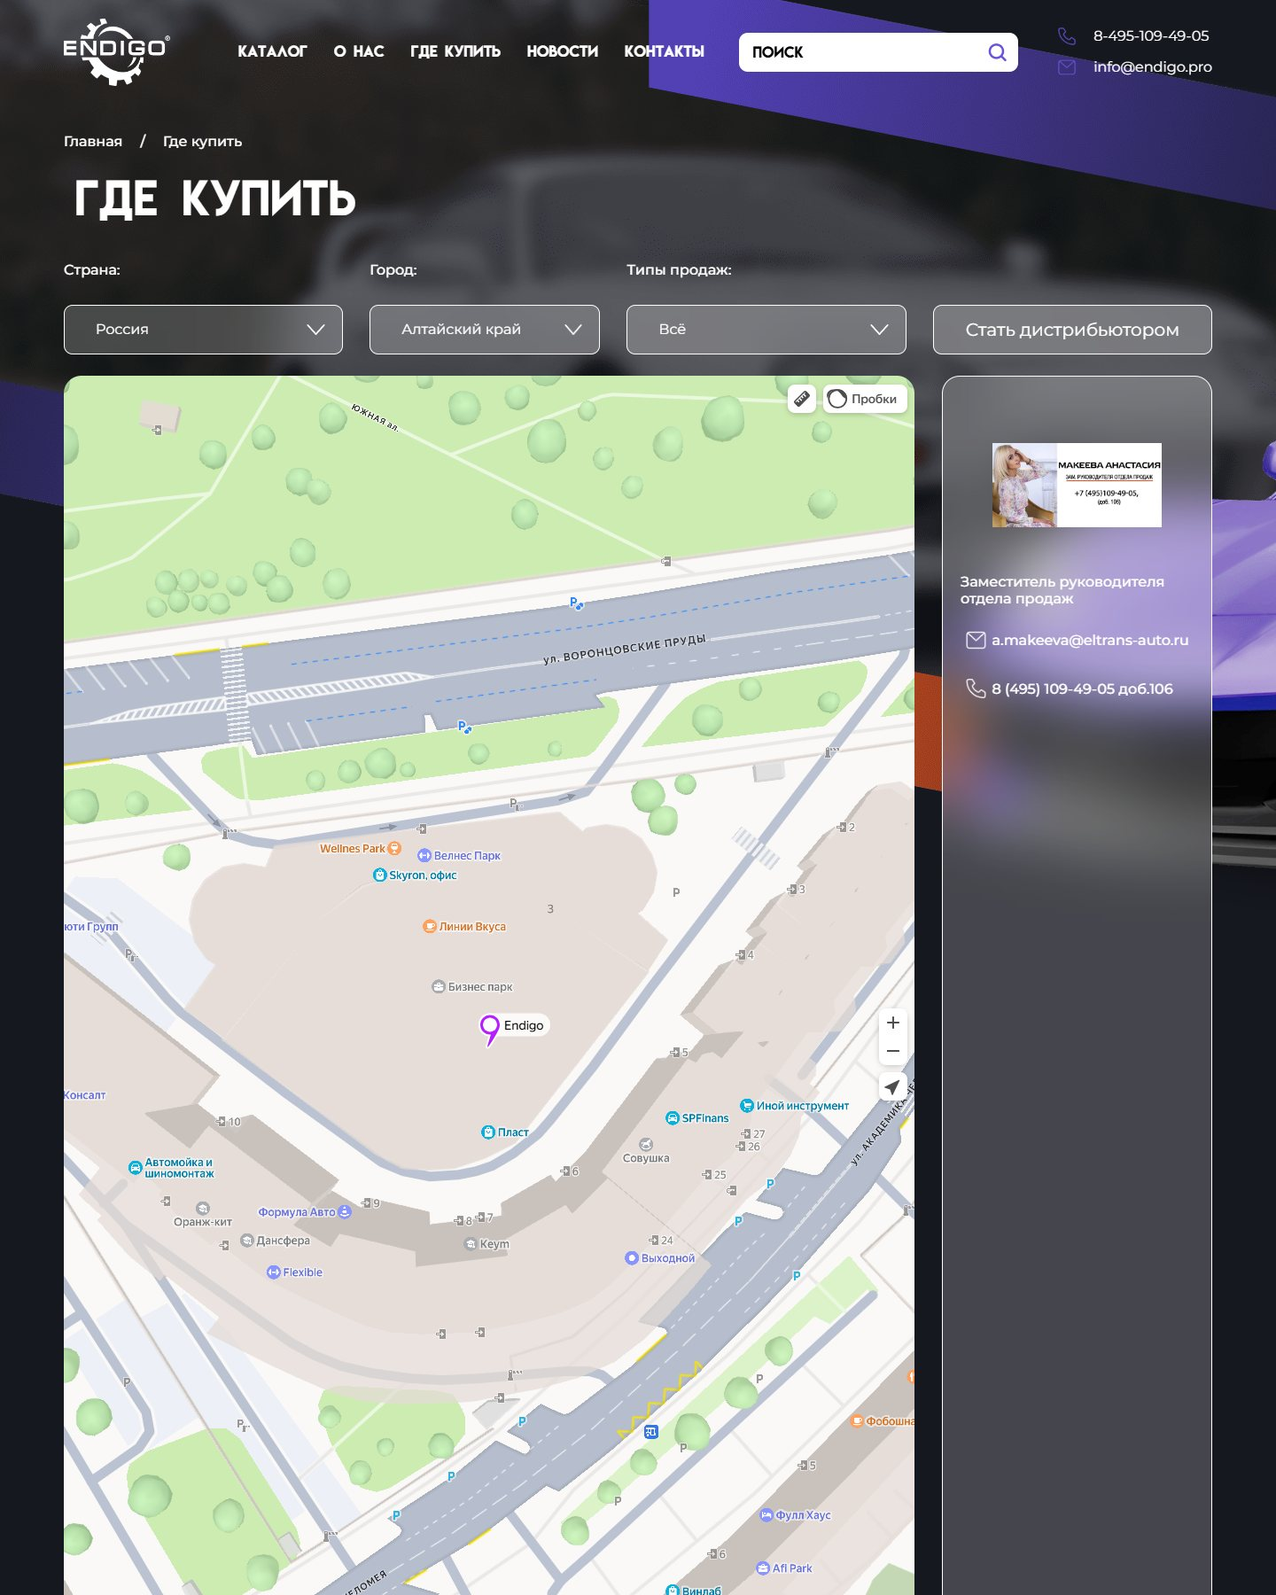
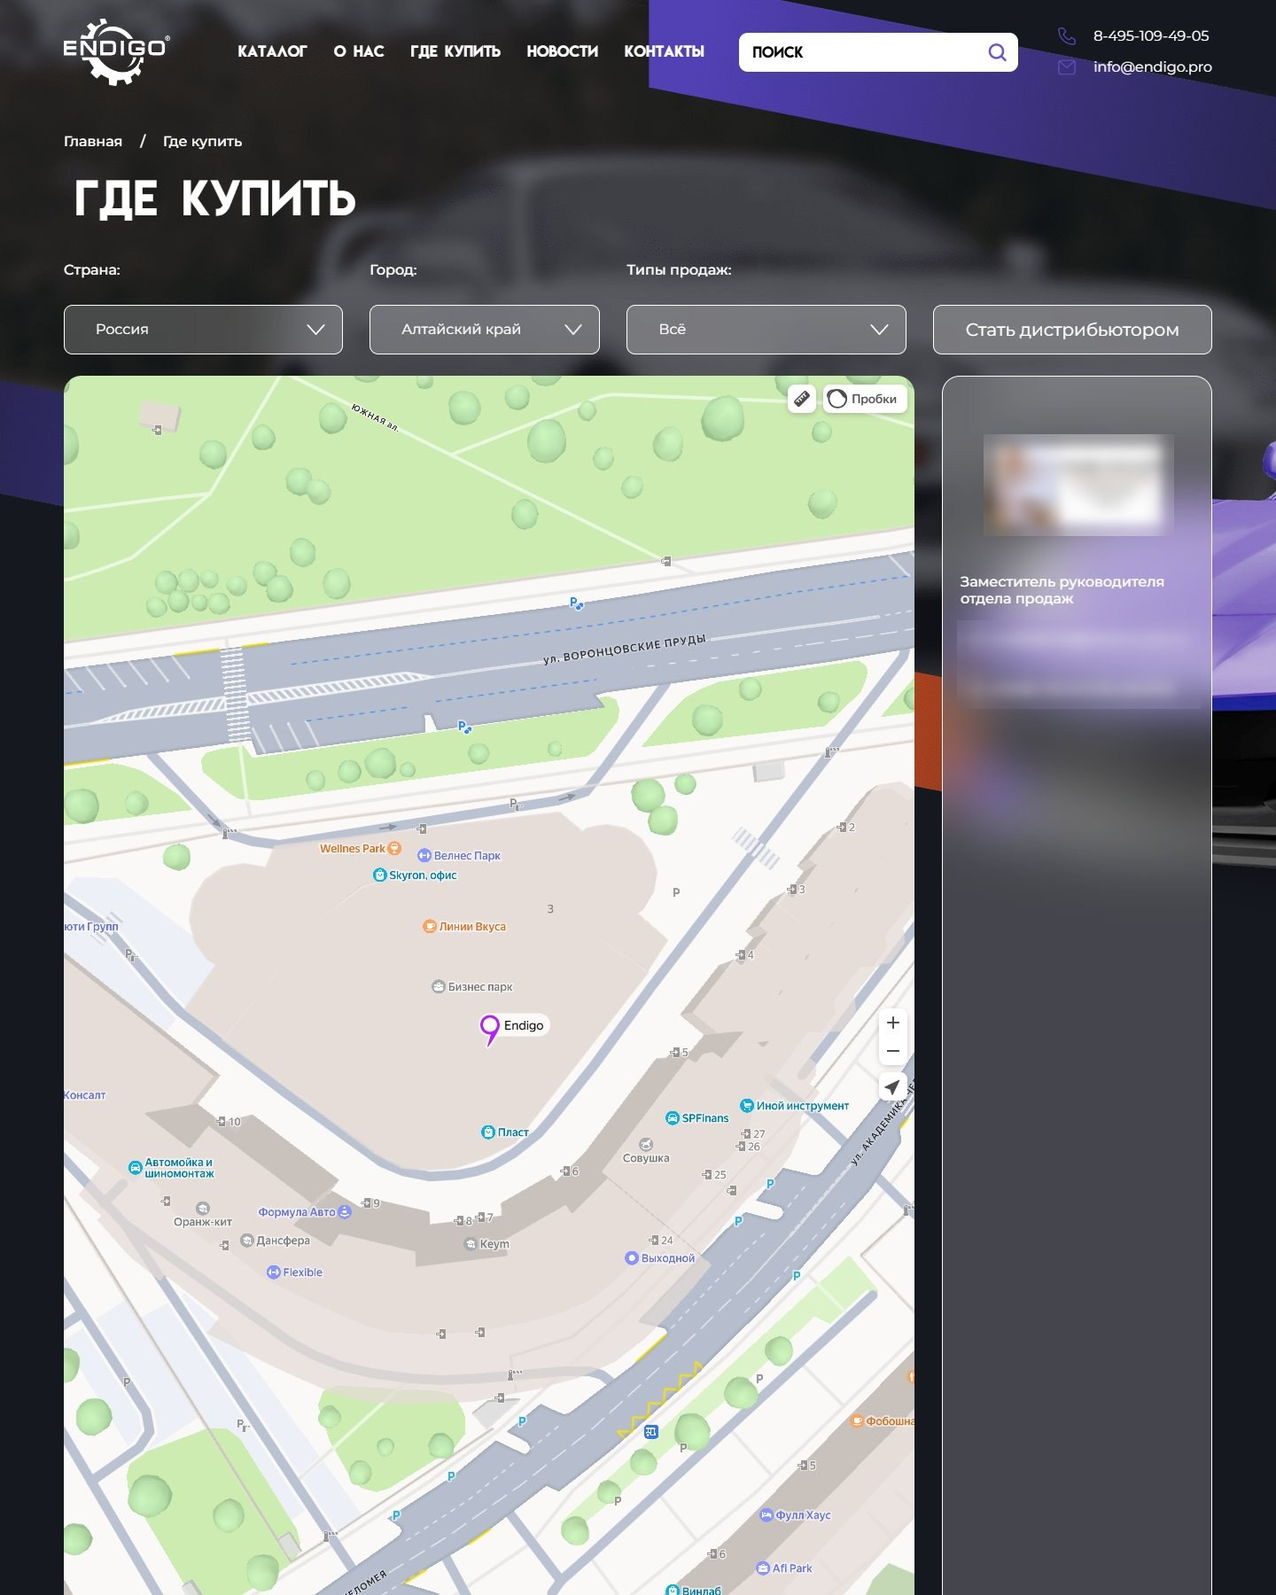
ENDIGO: 44 проблемы, шесть зон, скрыты данные менеджера, метки разведены

Changed region(s): [[0.75, 0.2489, 0.9375, 0.3422], [0.7812, 0.3733, 0.9062, 0.4356]]

diff --git a/src/data/portfolioCases.ts b/src/data/portfolioCases.ts
@@ -641,17 +641,17 @@ export const portfolioCases: Record<string, IPortfolioCase> = {
         ],
         info: [
             { label: 'Задача', text: 'ENDIGO — российская марка профессиональной автохимии: очистители сажевого фильтра и кондиционера, пенная раскоксовка, смазки и сервисные спреи. Покупают её не автовладельцы в рознице, а сервисные центры, автомойки и магазины автозапчастей, причём через региональных дистрибьюторов. Мастер приходит на сайт с конкретной поломкой: машина дымит, контакт окислился, прикипел болт. Артикул вроде DX112 ему ничего не скажет. Нужен был сайт, который переводит поломку в название средства и сразу подсказывает, у кого его купить в своём регионе.' },
-            { label: 'Решение', text: 'Три входа в каталог вместо одного. Схема автомобиля на главной: выбираешь дверь, капот, колесо, стекло или корпус, и справа остаются только средства для этой части машины. Страница «Проблемы и их решения» собрала 45 типовых симптомов с поиском: вводишь «масло» — список сам раскрывает подходящую проблему и показывает средство. А «Где купить» по стране, региону и типу продаж выдаёт контакт менеджера и точку на карте. Тёмный фон, фиолетовый цвет баллонов и спорткар, который въезжает на первый экран, делают сайт похожим на саму марку, а не на прайс-лист.' },
-            { label: 'Стек', chips: ['Joomla', 'Bootstrap 5', 'jQuery', 'Owl Carousel', 'AOS', 'Яндекс Карты'] },
-            { label: 'Результат', text: 'Каталог из шести разделов, от сервисных продуктов до средств для дизеля и кондиционеров. У каждого средства своя страница: артикул, объём, три главных преимущества, способ применения, предупреждения и видео. 45 проблем приводят к нужному средству за один клик, а дилеров можно искать по 69 регионам России и Казахстана. Кнопка «Стать дистрибьютором» открывает заявку прямо со страницы дилеров.' }
+            { label: 'Решение', text: 'Три входа в каталог вместо одного. Схема автомобиля на главной: выбираешь дверь, капот, колесо, стекло, корпус или бак, и справа остаются только средства для этой части машины. Страница «Проблемы и их решения» собрала 44 типовых симптома с поиском: вводишь «масло» — список сам раскрывает подходящую проблему и показывает средство. А «Где купить» по стране, региону и типу продаж выдаёт контакт менеджера и точку на карте. Тёмный фон, фиолетовый цвет баллонов и спорткар, который въезжает на первый экран, делают сайт похожим на саму марку, а не на прайс-лист.' },
+            { label: 'Стек', chips: ['Joomla', 'Bootstrap 5', 'jQuery', 'Owl Carousel', 'AOS', 'Яндекс.Карты'] },
+            { label: 'Результат', text: 'Каталог из шести разделов, от сервисных продуктов до средств для дизеля и кондиционеров. У каждого средства своя страница: артикул, объём, три главных преимущества, способ применения, предупреждения и видео. 44 проблемы приводят к нужному средству за один клик, а дилеров можно искать по 69 регионам России и Казахстана. Кнопка «Стать дистрибьютором» открывает заявку прямо со страницы дилеров.' }
         ],
         features: [
-            { title: 'Подбор по схеме автомобиля', text: 'Блок «Поможем с выбором» на главной: при наведении на часть машины она подсвечивается сеткой, линия ведёт от неё к списку, и в списке остаются только подходящие средства. На телефоне схему заменяют шесть кнопок с теми же зонами, потому что навести курсор там нельзя.' },
+            { title: 'Подбор по схеме автомобиля', text: 'Блок «Поможем с выбором» на главной: при наведении на часть машины она выделяется на схеме, линия ведёт от неё к списку, и в списке остаются только подходящие средства. На телефоне схему заменяют шесть кнопок с теми же зонами, потому что навести курсор там нельзя.' },
             { title: 'Проблемы и их решения', text: 'Отдельная страница на языке мастера: «Синий дым», «Жрёт масло», «Лампа мигает», «Прикипел колёсный диск». Каждый пункт раскрывается в карточку средства с фото, артикулом и описанием. Поиск подсвечивает совпадение и сам прокручивает к нему, а поле поиска остаётся закреплённым наверху, пока листаешь длинный список.' },
             { title: 'Где купить', text: 'Марка продаётся через дистрибьюторов, поэтому у сайта нет корзины, зато есть поиск продавца. Три фильтра (страна, регион, опт или розница) оставляют нужные карточки: визитка менеджера, почта, телефон с добавочным и Яндекс Карта с точкой продажи.' },
             { title: 'Страница средства', text: 'Карточка товара отвечает на вопросы мастера по порядку: что это и в каком объёме, три главных преимущества крупными цифрами, как применять и чего делать нельзя. Рядом видео и кнопка «Проблемы и их решения», если нужно сверить симптом.' }
         ],
-        metrics: [['45', 'типовых проблем с готовым решением'], ['6', 'зон автомобиля в подборе средства'], ['69', 'регионов в поиске дилера']],
+        metrics: [['44', 'типовые проблемы с готовым решением'], ['6', 'зон автомобиля в подборе средства'], ['69', 'регионов в поиске дилера']],
         screens: [
             {
                 title: 'Первый экран',
@@ -671,19 +671,19 @@ export const portfolioCases: Record<string, IPortfolioCase> = {
                 text: 'Схема автомобиля вместо списка категорий: выбираешь часть машины и видишь, что для неё есть.',
                 image: { src: img('endigo-s2-choice.jpg') },
                 points: [
-                    { text: 'Выбранная зона, здесь корпус, подсвечивается сеткой поверх машины. Всего зон шесть: дверь, капот, колесо, стекло, корпус и бак.', mark: mark(0.3, 0.52, 0.3, 0.52, 1.15) },
-                    { text: 'Линия ведёт от схемы к списку, а в списке остаются только средства для этой зоны: для корпуса — пенная раскоксовка и цитрусовый очиститель.', mark: mark(0.8, 0.45, 0.8, 0.45, 1.25) },
+                    { text: 'Машина на схеме разбита на шесть зон: дверь, капот, колесо, стекло, корпус и бак. Каждую можно выбрать прямо на картинке.', mark: mark(0.3, 0.52, 0.3, 0.52, 1.15) },
+                    { text: 'Линия ведёт от схемы к списку, а в списке остаются только средства для выбранной зоны: здесь пенная раскоксовка и цитрусовый очиститель.', mark: mark(0.8, 0.45, 0.8, 0.45, 1.25) },
                     { text: 'Если поломка понятна, а часть машины нет, кнопка ведёт на страницу «Проблемы и их решения».', mark: mark(0.85, 0.76, 0.8, 0.74, 1.35) }
                 ]
             },
             {
                 title: 'Проблемы и их решения',
                 goal: 'Цель: перевести симптом в название средства',
-                text: '45 поломок словами мастера, и у каждой готовое средство.',
+                text: '44 поломки словами мастера, и у каждой готовое средство.',
                 image: { src: img('endigo-s3-problems.jpg') },
                 points: [
-                    { text: 'Поиск закрепляется наверху, пока листаешь список. Ввёл «масл» — страница сама прокрутила к подходящей проблеме.', mark: mark(0.16, 0.04, 0.25, 0.08, 1.35) },
-                    { text: 'Совпадение подсвечено, а пункт «Жрёт масло» раскрыт без лишнего клика.', mark: mark(0.1, 0.07, 0.3, 0.12, 1.35) },
+                    { text: 'Поиск закрепляется наверху, пока листаешь список. Ввёл «масл» — страница сама прокрутила к подходящей проблеме.', mark: mark(0.26, 0.045, 0.25, 0.08, 1.35) },
+                    { text: 'Совпадение подсвечено, а пункт «Жрёт масло» раскрыт без лишнего клика.', mark: mark(0.11, 0.075, 0.3, 0.12, 1.35) },
                     { text: 'Внутри — карточка средства: фото баллона, название, артикул для заказа и кнопка «Доп. информация» на страницу товара.', mark: mark(0.86, 0.11, 0.6, 0.12, 1.3) },
                     { text: 'Пункты написаны так, как их формулирует мастер: «Дымит», «Контакт окислился», «Клемма аккумулятора белого цвета».', mark: mark(0.3, 0.6, 0.45, 0.6, 1.15) }
                 ]
@@ -697,7 +697,7 @@ export const portfolioCases: Record<string, IPortfolioCase> = {
                     { text: 'Три фильтра: страна, регион и тип продаж — опт или розница. Список регионов зависит от выбранной страны.', mark: mark(0.38, 0.2, 0.4, 0.2, 1.3) },
                     { text: '«Стать дистрибьютором» открывает форму заявки: страница работает и на покупателей, и на будущих партнёров.', mark: mark(0.84, 0.2, 0.75, 0.2, 1.35) },
                     { text: 'Яндекс Карта показывает точку продажи выбранного дилера.', mark: mark(0.38, 0.62, 0.38, 0.55, 1.15) },
-                    { text: 'Карточка менеджера с визиткой и фото, почтой и телефоном с добавочным: звонишь сразу нужному человеку.', mark: mark(0.84, 0.38, 0.8, 0.35, 1.3) }
+                    { text: 'Карточка менеджера с визиткой и фото, почтой и телефоном с добавочным: звонишь сразу нужному человеку. Личные данные на скриншоте скрыты.', mark: mark(0.84, 0.38, 0.8, 0.35, 1.3) }
                 ]
             }
         ]

diff --git a/src/data/portfolio.ts b/src/data/portfolio.ts
@@ -122,7 +122,7 @@ export const portfolioWorks: IPortfolioWork[] = [
         year: 2023,
         kind: 'Корпоративный',
         industries: ['b2b'],
-        description: 'Сайт марки профессиональной автохимии для СТО: подбор средства по схеме автомобиля, 45 типовых поломок с готовым решением и поиск дилера по региону',
+        description: 'Сайт марки профессиональной автохимии для СТО: подбор средства по схеме автомобиля, 44 типовые поломки с готовым решением и поиск дилера по региону',
         tags: ['Web', 'Mobile', 'Автохимия', 'B2B'],
         tint: 'rgba(105, 83, 218, 0.2)',
         cover: img('endigo-desktop.jpg'),
